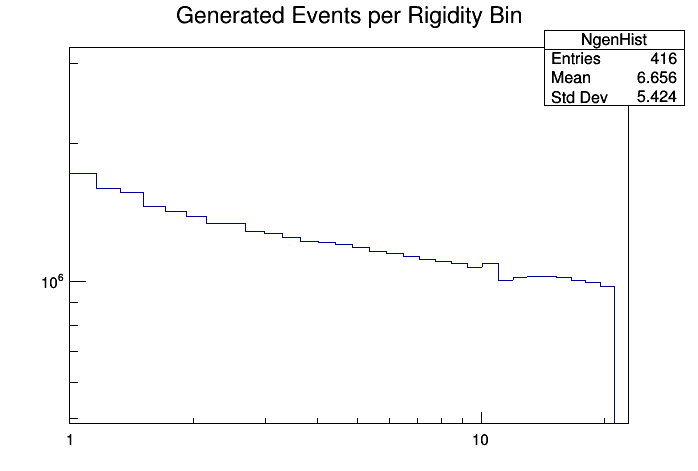
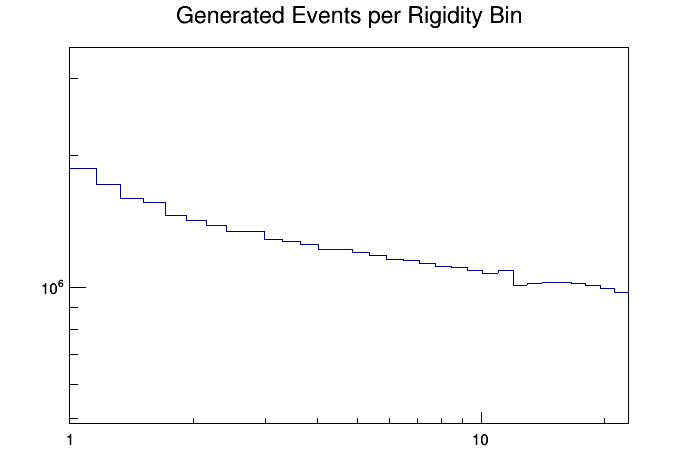
update 27-11-20

diff --git a/Acceptance_FIX.C b/Acceptance_FIX.C
@@ -7,9 +7,16 @@
 #include "Header Files/Ntp.h"
 
 void Acceptance() {
+
   // Define Rigidity Bins
   double bin_left[32] = {1.00,1.16,1.33,1.51,1.71,1.92,2.15,2.40,2.67,2.97,3.29,3.64,4.02,4.43,4.88,5.37,5.90,6.47,7.09,7.76,8.48,9.26,10.1,11.0,12.0,13.0,14.1,15.3,16.6,18.0,19.5,21.1};
   double bin_right[32] = {1.16,1.33,1.51,1.71,1.92,2.15,2.40,2.67,2.97,3.29,3.64,4.02,4.43,4.88,5.37,5.90,6.47,7.09,7.76,8.48,9.26,10.1,11.0,12.0,13.0,14.1,15.3,16.6,18.0,19.5,21.1,22.8};
+  double bin_middle[32] = {0,0,0,0,0,0,0,0,0,0,0,0,0,0,0,0,0,0,0,0,0,0,0,0,0,0,0,0,0,0,0,0};
+  double ErrRig[32] = {0,0,0,0,0,0,0,0,0,0,0,0,0,0,0,0,0,0,0,0,0,0,0,0,0,0,0,0,0,0,0,0};
+  for (Int_t i=0; i<32; i++) {
+    bin_middle[i] = (bin_right[i] + bin_left[i]) / 2;
+    ErrRig[i] = (bin_right[i] - bin_left[i]) / 2;
+  }
   double bin_edges[33] = {1.00,1.16,1.33,1.51,1.71,1.92,2.15,2.40,2.67,2.97,3.29,3.64,4.02,4.43,4.88,5.37,5.90,6.47,7.09,7.76,8.48,9.26,10.1,11.0,12.0,13.0,14.1,15.3,16.6,18.0,19.5,21.1,22.8};
 
   // Define histogram
@@ -62,7 +69,7 @@ void Acceptance() {
       // Number of events in fraction
       double Nev = frac * ngen;
       // Set bin to current count + Nev
-      NgenHist->SetBinContent(j, NgenHist->GetBinContent(j) + Nev);
+      NgenHist->SetBinContent(j+1, NgenHist->GetBinContent(j+1) + Nev);
 
     }
     cout << "Total fraction in R=(1.0, 22.8) of " << start_num+i << ".root: " << check << endl;
@@ -76,9 +83,9 @@ void Acceptance() {
 
   // Draw histogram
   NgenHist->Draw();
+  NgenHist->SetStats(0);
   c1->SetLogx();
   c1->SetLogy();
-
   // Draw canvas
   c1->Draw();
   // Print canvas
@@ -90,26 +97,118 @@ void Acceptance() {
 
 
   // Define histogram
-  TH1F* NselHist = new TH1F("NselHist", "Selected Events per Rigidity Bin", 32, bin_edges);
+  TH1F* NdetHist = new TH1F("NdetHist", "Detected Events per Rigidity Bin", 32, bin_edges);
   // Create canvas
-  TCanvas* c2 = new TCanvas("Nsel", "Selected Events per Rigidity Bin");
+  TCanvas* c2 = new TCanvas("Ndet", "Detected Events per Rigidity Bin");
 
-  // Get chain
-  TChain cp_chain("Compact");
-  cp_chain.Add("../Simp.root");
+  // Import tree
+  TChain ev_chain("Compact");
+  ev_chain.Add("../MC Protons/*.root");
+  // Create empty class objects
+  NtpCompact *EvComp = new class NtpCompact();
+  // Set Branch address
+  ev_chain.SetBranchAddress("Compact", &EvComp);
 
   // Fill histogram
-  for (Int_t i=0; i<cp_chain->GetEntries(); i++) {
-    cp_chain.GetEntry(i);
-    NselHist->Fill("trk_rig");
+  for (Int_t i=0; i<ev_chain.GetEntries(); i++) {
+    ev_chain.GetEntry(i);
+    NdetHist->Fill(EvComp->trk_rig[0]);
   }
 
-  // Draw histrogram
-  NselHist->Draw();
-
+  // Draw histogram
+  NdetHist->Draw();
+  NdetHist->SetStats(0);
+  c2->SetLogx();
+  c2->SetLogy();
   // Draw canvas
   c2->Draw();
 
+
+
+  // Define histogram
+  TH1F* AccHist = (TH1F*) NdetHist->Clone();
+  AccHist->SetName("AccHist");
+  AccHist->SetTitle("Acceptance per Rigidity Bin");
+  AccHist->Divide(NgenHist);
+  // Create canvas
+  TCanvas* c3 = new TCanvas("Acc", "Acceptance per Rigidity Bin");
+
+  // Scale histogram
+  double gen_vol = TMath::Pi() * 3.9 * 3.9;
+  AccHist->Scale(gen_vol);
+  cout << "MC Generation Volume: " << gen_vol << " m2 sr" << endl;
+
+  // Draw histogram
+  AccHist->Draw("hist");
+  AccHist->SetStats(0);
+  c3->SetLogx();
+  // Draw canvas
+  c3->Draw();
+
+
+
+  // Convert TH1F to TGraph
+  cout << "Acceptance: ";
+  double Acc[32] = {0,0,0,0,0,0,0,0,0,0,0,0,0,0,0,0,0,0,0,0,0,0,0,0,0,0,0,0,0,0,0,0};
+  for (Int_t i=0; i<32; i++) {
+    Acc[i] = AccHist->GetBinContent(i+1);
+    cout << Acc[i] << " ";
+  }
+  cout << endl;
+  // Create TGraph
+  TGraphErrors* Agraph = new TGraphErrors(32, bin_middle, Acc, ErrRig, 0);
+  TCanvas* c4 = new TCanvas("Acc2", "Acceptance TGraph");
+  // Styling
+  Agraph->SetMarkerStyle(20);
+  Agraph->SetMarkerSize(1);
+  Agraph->SetMarkerColor(kBlue);
+  // Axes
+  Agraph->GetXaxis()->SetTitle("R [GV]");
+  Agraph->GetYaxis()->SetTitle("Acceptance [m^2 sr]");
+  c4->SetLogx();
+  // Draw
+  Agraph->Draw("AP");
+
+  // Spline
+  // Input nodees
+  std::vector<double> nodes;
+  for (int k = 0; k < 32; k = k+4) {
+    nodes.emplace_back(bin_middle[k]);
+  }
+  nodes.emplace_back(22.08);
+  double x_min = nodes[0];
+  double x_max = nodes[nodes.size()-1];
+  // Define TF1 using a lambda function
+  // Coordinates of each node are fit parameters, incl derivs at beg and end -> nodes.size()*2+2
+  TF1 *f_spline = new TF1("f_spline", [&](Double_t *x, Double_t *par){
+    Double_t xx = x[0];
+    // Vectors for node coordinates
+    std::vector<double> xn;
+    std::vector<double> yn;
+    for (int k = 0; k < nodes.size(); k++){
+      xn.emplace_back(par[k]);
+      yn.emplace_back(par[k+nodes.size()]);
+    }
+    // First deriv at beg and end
+    Double_t b1 = par[nodes.size()*2];
+    Double_t e1 = par[nodes.size()*2+1];
+    // Define spline with nodes and derivs
+    TSpline3 sp3("sp3", &xn[0], &yn[0], nodes.size(), "b1e1", b1, e1);
+    return
+      sp3.Eval(xx);
+  }, x_min, x_max, nodes.size()*2+2);
+  for (int k = 0; k < nodes.size(); k++){
+    f_spline->FixParameter(k, nodes[k]);
+    f_spline->SetParameter(k+nodes.size(), AccHist->GetBinContent(AccHist->FindBin(nodes[k])));
+  }
+  f_spline->FixParameter(nodes.size()*2, 0.);
+  f_spline->FixParameter(nodes.size()*2+1, 0.);
+  // Draw Spline
+  f_spline->SetLineColor(kBlack);
+  f_spline->Draw("same");
+
+  // Print canvas
+  c4->Print("./Acceptance/Acceptance TGraph.png");
 
 
 }

diff --git a/ProtonAnalysis.C b/ProtonAnalysis.C
@@ -47,9 +47,6 @@ class Anaaqra {
     TH1F Acceptance(); // Returns acceptance as function of rigidity
 
 
-    // DESTRUCTOR
-    virtual ~Anaaqra();
-
 };
 
 //------------------------------------------------------------------------------
@@ -73,22 +70,25 @@ TH1F Anaaqra::Acceptance() {
     TChain fi_chain("File");
     mc_chain.Add(Form("../MC Protons/%d.root", start_num + i));
     fi_chain.Add(Form("../MC Protons/%d.root", start_num + i));
+
     // Create empty class objects
-    NtpCompact *MCompact = new class NtpCompact();
+    NtpCompact *Compact = new class NtpCompact();
     FileMCInfo *FMCI = new class FileMCInfo();
-    // Set branch address
-    mc_chain.SetBranchAddress("Compact", &MCompact);
+    // Set Branch address
+    mc_chain.SetBranchAddress("Compact", &Compact);
     fi_chain.SetBranchAddress("FileMCInfo", &FMCI);
 
     // MC parameters
-    double ngen = 0;
-    double rig_min = 0;
-    double rig_max = 0;
+    Double_t ngen = 0;
+    Double_t rig_min = 0;
+    Double_t rig_max = 0;
     // Get FileMCInfo entry for MC information
     fi_chain.GetEntry(0);
     ngen = FMCI->ngen_datacard;
     rig_min = FMCI->momentum[0];
     rig_max = FMCI->momentum[1];
+    cout << ngen << "   " << rig_min << "   " << rig_max << endl;
+    cout << bin_edges[0] << "   " << bin_edges[bin_num+1] << endl;
     // Add ngen to total_gen for visual check
     total_gen += ngen;
 
@@ -101,30 +101,41 @@ TH1F Anaaqra::Acceptance() {
     double total_frac = 0;
     for (int j=0; j<bin_num; j++) {
       // Fraction of spectrum in bin
-      double frac = genFlux->Integral(bin_edges[j], bin_edges[j])/genFlux->Integral(rig_min, rig_max);
+      double frac = genFlux->Integral(bin_edges[j], bin_edges[j+1])/genFlux->Integral(rig_min, rig_max);
       total_frac += frac;
       // Number of events in fraction
       double nev = frac * ngen;
       // Set bin to current count + nev
-      NgenHist->SetBinContent(j, NgenHist->GetBinContent(j) + nev);
+      NgenHist->SetBinContent(j+1, NgenHist->GetBinContent(j+1) + nev);
 
     }
 
     // Print total fractions for visual check
-    cout << "Total fraction in R=(" << bin_edges[0] << ", " << bin_edges[bin_num+1]
+    cout << "Total fraction in R=(" << bin_edges[0] << ", " << bin_edges[bin_num]
          << ") of " << start_num+i << ".root: " << total_frac << endl;
 
   }
 
+  // Draw histogram
+  NgenHist->Draw();
+  NgenHist->SetStats(0);
+  cAcc->SetLogx();
+  cAcc->SetLogy();
+  // Draw canvas
+  cAcc->Draw();
+  // Print canvas
+  cAcc->Print("./ProtonAnalysis/Acceptance MC Generated Events.png");
+
   // Sum over bins for visual check
   double total_bin = 0;
   for (int i=0; i<bin_num; i++) {
-    total_bin += NgenHist->GetBinContent(i);
+    total_bin += NgenHist->GetBinContent(i+1);
   }
   // Print sum for visual check
   cout << "Total generated MC events: " << total_gen << endl;
-  cout << "Total MC events in R=" << bin_edges[0] << ", " << bin_edges[bin_num+1]
+  cout << "Total MC events in R=" << bin_edges[0] << ", " << bin_edges[bin_num]
        << "): " << total_bin << endl;
+
 
   return *NgenHist;
 }
